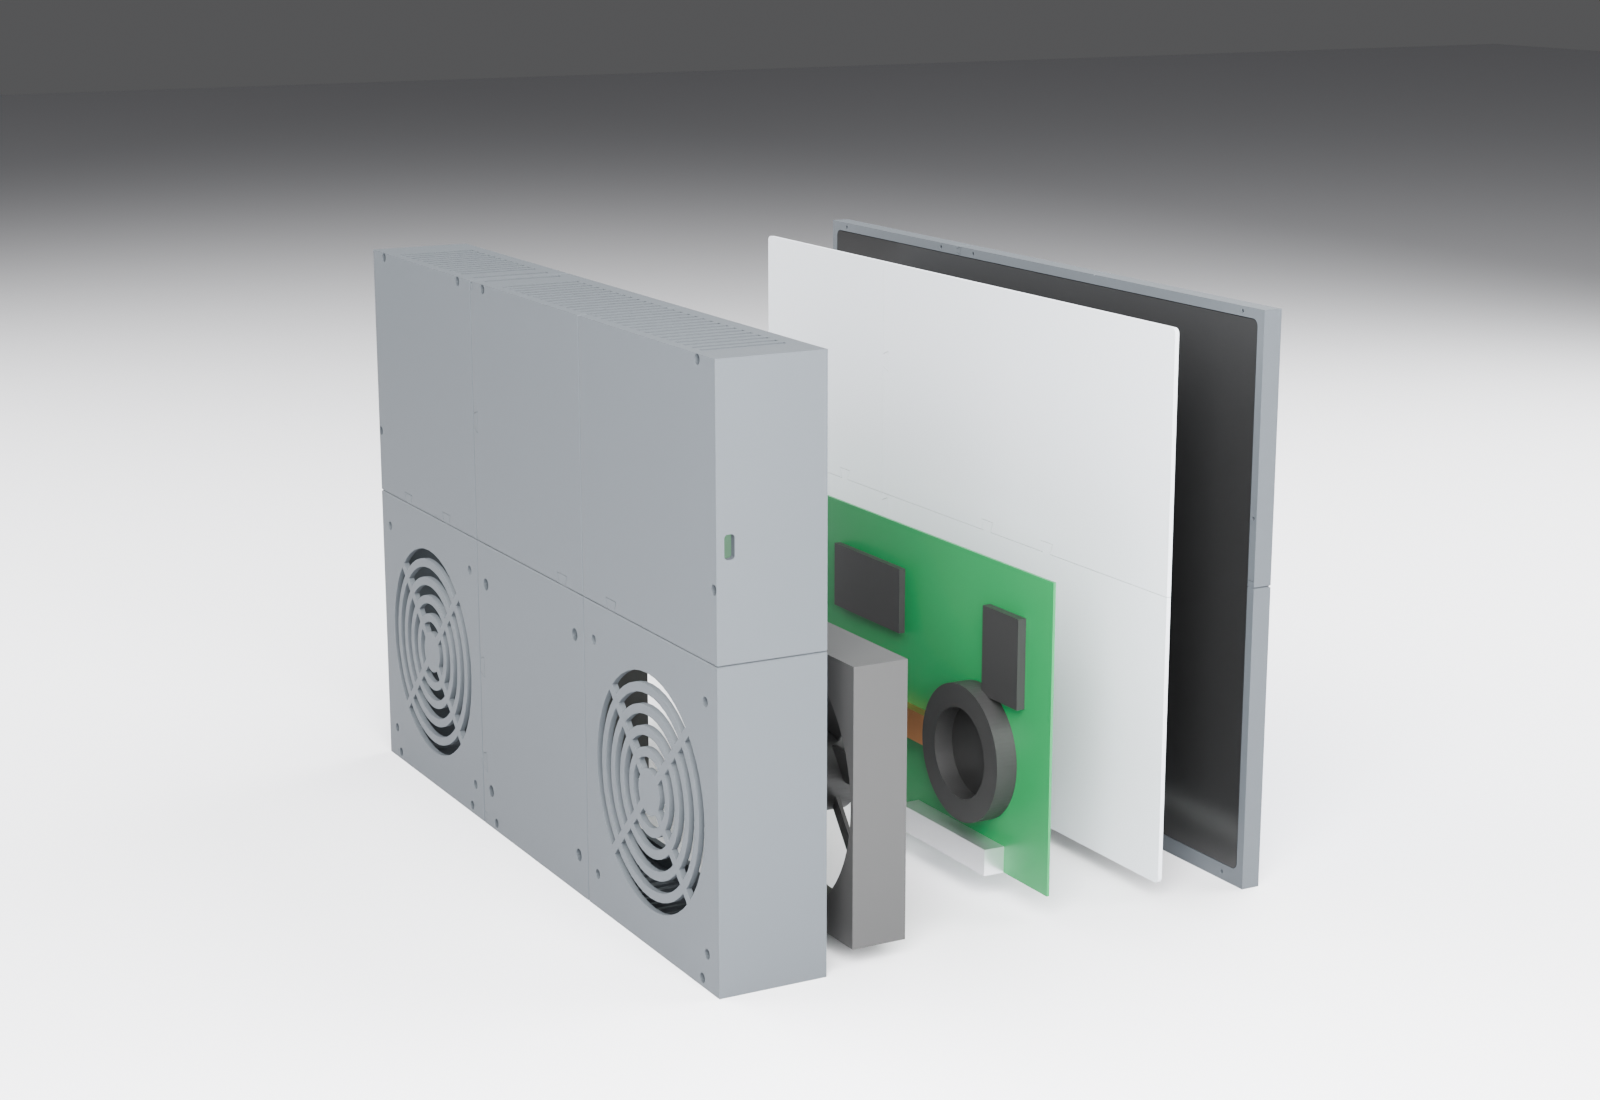
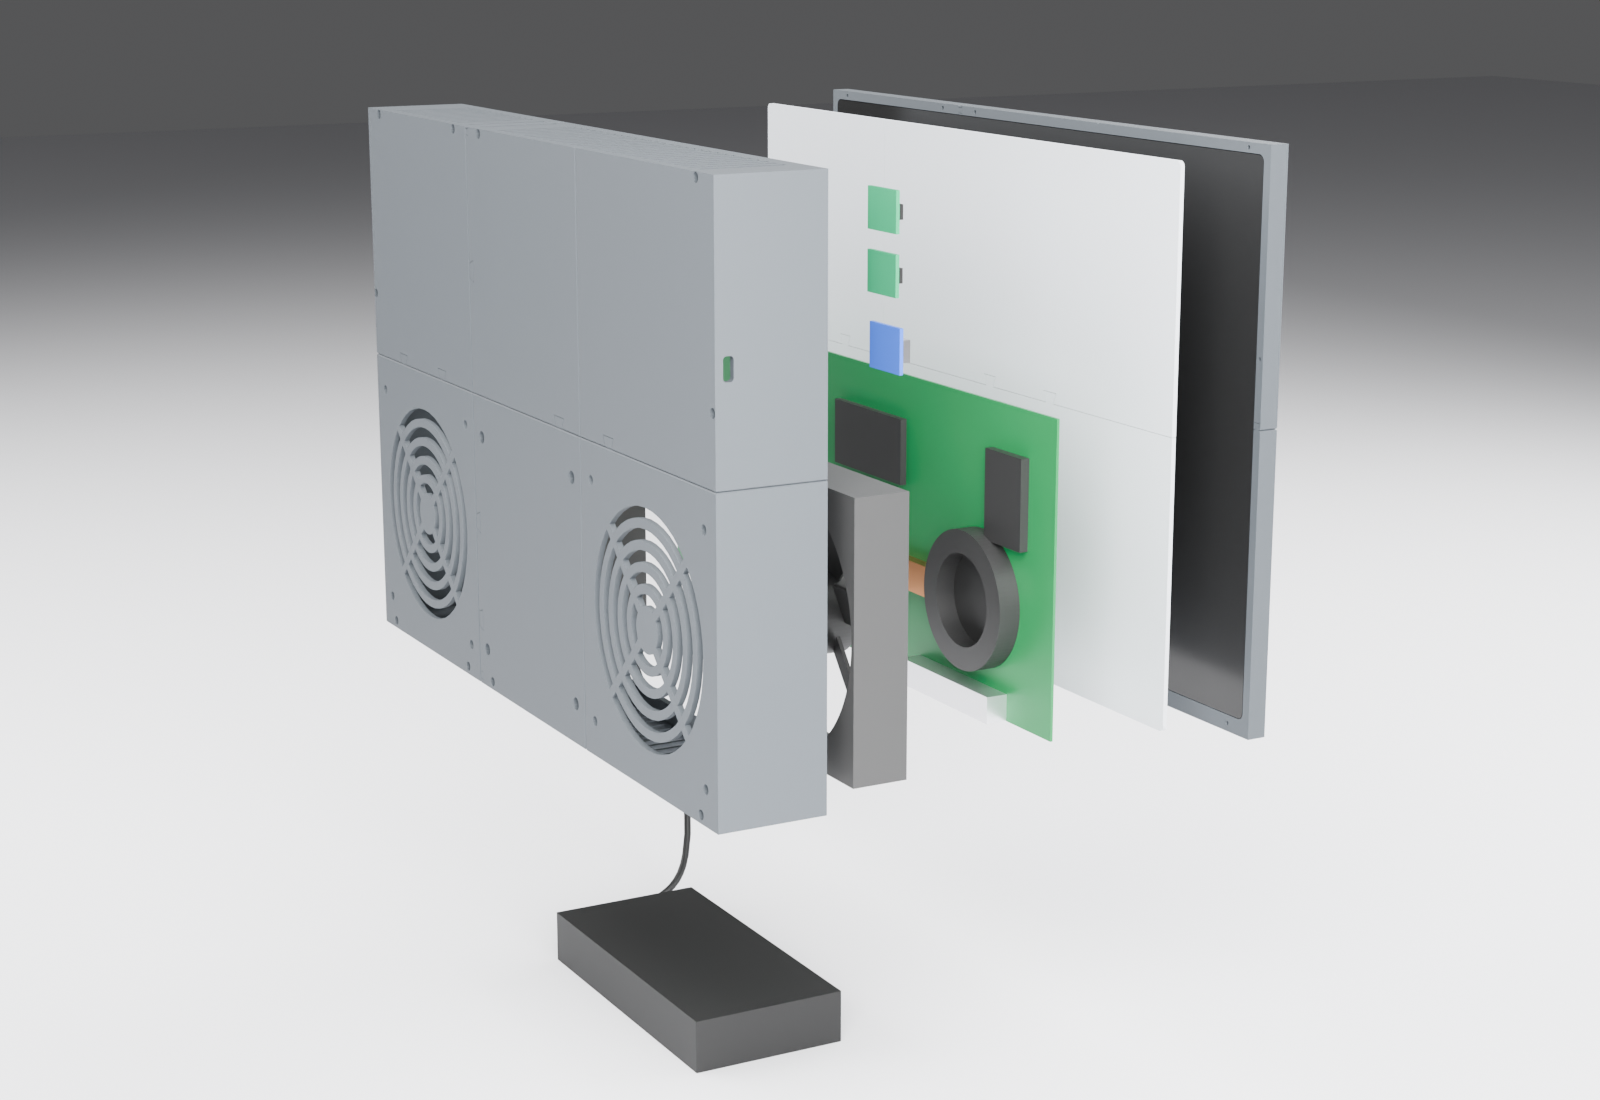
feat(render): add ESP32, bucks, DC jack and power brick to the photo renders

Changed region(s): [[0.0, 0.0618, 1.0, 0.9891], [0.4375, 0.3091, 0.4688, 0.34]]

diff --git a/render/scene.py b/render/scene.py
@@ -39,10 +39,15 @@ M = {
     "alu": mat("alu", (0.75, 0.75, 0.78), 0.3, 0.9),
     "copper": mat("copper", (0.8, 0.4, 0.2), 0.3, 1.0),
     "fan": mat("fan", (0.05, 0.05, 0.05), 0.5),
+    "esp": mat("esp", (0.05, 0.12, 0.45), 0.4),
+    "buck": mat("buck", (0.03, 0.25, 0.12), 0.4),
+    "steel": mat("steel", (0.7, 0.7, 0.72), 0.25, 1.0),
+    "brick": mat("brick", (0.02, 0.02, 0.02), 0.55),
 }
 
 # name: (material, explode offset along scad +Z in mm)
 ex = view == "back"
+ee = 130 if ex else 0  # electronics explode offset, mm
 parts = {
     "frame": ("frame", 0), "lid": ("lid", 0), "screen": ("screen", 0),
     "tray": ("tray", 40 if ex else 0),
@@ -50,6 +55,8 @@ parts = {
     "blowers": ("dark", 90 if ex else 0), "fins": ("alu", 90 if ex else 0), "pipe": ("copper", 90 if ex else 0),
     "fans": ("fan", 150 if ex else 0), "blades": ("fan", 150 if ex else 0),
     "shell": ("case", 210 if ex else 0),
+    # electronics bay + DC jack sit in the shell; exploded on their own layer so the shell doesn't hide them
+    "esp": ("esp", ee), "bucks": ("buck", ee), "usbc": ("steel", ee), "parts": ("dark", ee),
 }
 for n, (m, dz) in parts.items():
     bpy.ops.wm.stl_import(filepath=os.path.join(D, n + ".stl"))
@@ -64,11 +71,32 @@ for n, (m, dz) in parts.items():
 
 bpy.context.view_layer.update()
 # case centre in world coords
-cx, cy, cz = 0.185, -0.03 - (0.1 if ex else 0), 0.129
+cx, cy, cz = 0.185, -0.03 - (0.1 if ex else 0), 0.06  # low enough to frame the brick on the floor
 
-# floor
-bpy.ops.mesh.primitive_plane_add(size=10, location=(cx, cy, 0.0))
+# floor below the case (it hangs on its VESA mount), so the plug and the brick fit underneath
+fz = -0.16
+bpy.ops.mesh.primitive_plane_add(size=10, location=(cx, cy, fz))
 bpy.context.object.data.materials.append(mat("floor", (0.8, 0.8, 0.82), 0.9))
+
+# power brick on the floor (PLACEHOLDER ~156 x 75 x 25 mm, Lenovo 135 W slim tip) + cable to the DC plug
+by = -0.05 - ee / 1000
+bpy.ops.mesh.primitive_cube_add(size=1, location=(0.17, by, fz + 0.0125))
+b = bpy.context.object
+b.scale = (0.156, 0.075, 0.025)
+b.data.materials.append(M["brick"])
+bv = b.modifiers.new("bevel", "BEVEL")
+bv.width, bv.segments = 0.004, 4
+cu = bpy.data.curves.new("cable", "CURVE")
+cu.dimensions, cu.bevel_depth = "3D", 0.0018
+sp = cu.splines.new("BEZIER")
+sp.bezier_points.add(2)
+plug_y = -0.022 - ee / 1000  # plug end, world coords (dc_x = 37.8 mm)
+for p, co in zip(sp.bezier_points, [(0.0378, plug_y, -0.014), (0.06, plug_y + 0.022, -0.13), (0.092, by, fz + 0.0125)]):
+    p.co = co
+    p.handle_left_type = p.handle_right_type = "AUTO"
+cable = bpy.data.objects.new("cable", cu)
+sc.collection.objects.link(cable)
+cable.data.materials.append(mat("cable", (0.015, 0.015, 0.015), 0.5))
 
 tgt = bpy.data.objects.new("tgt", None)
 tgt.location = (cx, cy, cz)
